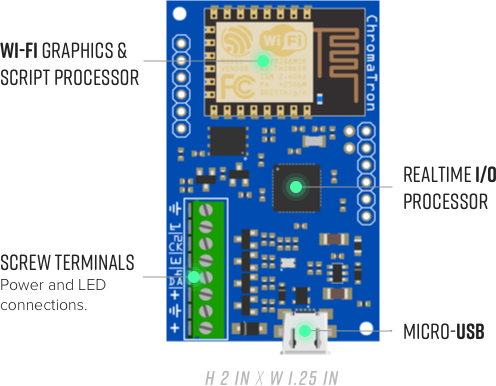
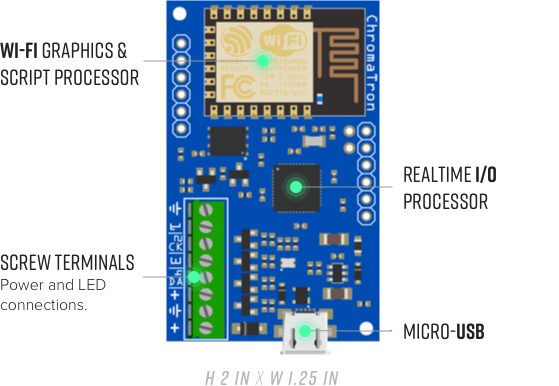
converted diagrams to pngs for now, later need to convert text to html or html/svg/css

diff --git a/docs/index.html b/docs/index.html
@@ -33,4 +33,4 @@ def loop():
         pixels[i].hue = a
         a += 1.0 / pix_count()
             </code>
-          </pre></div><div id="demo-2"></div><div id="demo-3"></div><p>This script generates this effect:</p></div></section><section class="hardware tertiary"><div class="container"><h1 class="h2">Hardware</h1><p class="text-center"><img src="images/hw-diagram-vert.svg" alt="Chromatron hardware prototype." class="img-responsive visible-xs"> <img src="images/hw-diagram-horiz.svg" alt="Chromatron hardware prototype." class="img-responsive hidden-xs"></p></div></section><section class="technical-details"><div class="container"><h1 class="h2">Technical Specs</h1><div class="row"><div class="col-xs-12 col-sm-4 col-md-3"><h3>I/O Processor</h3></div><div class="col-xs-12 col-sm-8 col-md-7"><ul class="list-unstyled"><li>Atmel AVR XMega128A4U</li><li>32 MHz</li><li>8K SRAM</li><li>128K Flash</li></ul><p>This processor runs the real time OS, handles raw pixel data output, USB, auxiliary IO, and the user file system.</p></div></div><hr><div class="row"><div class="col-xs-12 col-sm-4 col-md-3"><h3>Wi-Fi/Graphics processor</h3></div><div class="col-xs-12 col-sm-8 col-md-7"><ul class="list-unstyled"><li>Espressif ESP8266</li><li>160 MHz</li><li>64K RAM</li></ul><p>Handles Wi-Fi communications, scripting engine VM, pixel faders, and HSV to RGB colorspace conversion. Connected to the real time processor via 4 MHz UART bridge.</p></div></div><hr><div class="row"><div class="col-xs-12 col-sm-4 col-md-3"><h3>I/O</h3></div><div class="col-xs-12 col-sm-8 col-md-7"><ul class="list-unstyled"><li>4x PWM outputs, 3 amps each</li><li>1x Pixel clock + data output with built in level shifters, multiplexed with 2 of the PWM channels</li><li>2x power and ground connections</li><li>Micro USB port</li><li>2x expansion IO headers for future use</li></ul></div></div><hr><div class="row"><div class="col-xs-12 col-sm-4 col-md-3"><h3>Dimensions</h3></div><div class="col-xs-12 col-sm-8 col-md-7"><ul class="list-unstyled"><li>1.25 x 2 inches (the USB overhangs by another 0.1 inches or so)</li></ul><div class="row"><div class="col-xs-12 col-sm-6"><img src="images/hw-dimens-top.svg" alt="side dimensions"></div><div class="col-xs-12 col-sm-6"><img src="images/hw-dimens-side.svg" alt="side dimensions"></div></div></div></div></div></section><section class="about-us tertiary"><div class="container"><h1 class="h2">About Us</h1><p class="lead">Sapphire Open Systems is an Austin, TX based startup whose mission is to enable hobbyists, makers, and professionals to connect anything to everything and promote open source and interoperability as a better way to make electronics.</p></div></section><section class="open-source secondary"><div class="container"><div class="row"><div class="col-xs-12 col-sm-8"><h1 class="h2">100% Open Source</h1><p class="lead">All software and hardware will be released under OSI compatible licenses once the project hits the funding goal.</p></div><div class="col-xs-6 col-sm-2 text-center"><img height="180" width="172" class="img-responsive" src="images/osi-logo-outline.svg" alt="Open Source Initiative logo"><h4>Open Source<br>Initiative</h4></div><div class="col-xs-6 col-sm-2 text-center"><img height="180" width="172" class="img-responsive" src="images/oshw-logo-outline.svg" alt="Open Source Hardware logo"><h4>Open Source<br>Hardware</h4></div></div></div></section><footer class="main-footer primary"><div class="container"><h5>Copyright &copy; <span class="copyright-year">2017</span> Sapphire Open Systems</h5><ul class="list-inline"><li><a rel="me" href="https://github.com/sapphireos/"><i class="fa fa-github fa-2x"></i></a></li><li><a rel="me" href="https://www.facebook.com/sapphirechromatron/"><i class="fa fa-facebook-official fa-2x"></i></a></li><li><a rel="me" href="https://twitter.com/sapphireos"><i class="fa fa-twitter fa-2x"></i></a></li><li><a rel="me" href="https://www.youtube.com/user/SapphireOpenSystems"><i class="fa fa-youtube-play fa-2x"></i></a></li></ul></div></footer><section class="goal hidden"><div class="container"><h1 class="h2">Risks and Challenges</h1><p>Electronics manufacturing is hard. I would know &mdash; I've been doing it for over 10 years. Issues always come up during manufacturing, but there's a lot that can be done to help mitigate them.</p><div class="row"><div class="col-xs-12 col-sm-6"><ul class="list-unstyled"><li><h3>Production lead times</h3><p>Lead times for production quantities of parts can be quite long. 6 to 8 weeks can be typical. However, it is imprudent to order production quantities until your hardware design is finished, otherwise you may be stuck with 1000s of the wrong part. We have an advantage here, in that Chromatron's hardware design is already finished, so we can confidently begin ordering high risk parts (such as processors and connectors) as soon as funds are available.</p></li><li><h3>Manufacturing errors</h3><p>Manufacturing errors can and do happen. Wrong parts, missing parts, misaligned parts, boards overheated &mdash; these are all things that can happen, and are all things I've dealt with in my professional work. Chromatron is being built locally in Austin, TX at a vendor I have past experience with (with excellent results). I can be on site in 20 minutes if issues crop up (there's no substitute for being able to troubleshoot in person). Additionally, I will be doing a lower volume pilot run (100-250 units) to ensure any issues are worked out before committing resources to the full build.</p></li></ul></div><div class="col-xs-12 col-sm-6"><ul class="list-unstyled"><li><h3>Software bugs</h3><p>I take software issues very seriously and design my code to be as robust as possible. While much of Chromatron's software is pretty mature at this point, no sane engineer would call their work bug free and I am no exception. The open source nature of the project means you have the opportunity to review and comment on my work, as well as file bug reports (and feature requests!). I use Chromatron 24/7 to run the lighting in my home, so I am personally invested in the quality of the software that runs it.</p></li><li><h3>Communication</h3><p>Almost everyone on Kickstarter has heard of projects plagued by communications issues. Chromatron is not going to be one of them. I will communicate any and all issues that come up and what I'm doing to handle them, along with general progress of the various parts of the project. It is my hope that Chromatron can become a sustainable business in the future, and I believe the only way that can happen is to earn the trust of my community of backers.</p></li></ul></div></div></div></section><script>!function(e,t,a,n,c,o){e.GoogleAnalyticsObject=n,e[n]||(e[n]=function(){(e[n].q=e[n].q||[]).push(arguments)}),e[n].l=+new Date,c=t.createElement(a),o=t.getElementsByTagName(a)[0],c.src="https://www.google-analytics.com/analytics.js",o.parentNode.insertBefore(c,o)}(window,document,"script","ga"),ga("create","UA-29351826-4"),ga("send","pageview")</script><script src="scripts/vendor.js"></script><script src="scripts/plugins.js"></script><script src="scripts/main.js"></script></body></html>
+          </pre></div><div id="demo-2"></div><div id="demo-3"></div><p>This script generates this effect:</p></div></section><section class="hardware tertiary"><div class="container"><h1 class="h2">Hardware</h1><p class="text-center"><img src="images/hw-diagram-vert.png" alt="Chromatron hardware prototype." class="img-responsive visible-xs"> <img src="images/hw-diagram-horiz.png" alt="Chromatron hardware prototype." class="img-responsive hidden-xs"></p></div></section><section class="technical-details"><div class="container"><h1 class="h2">Technical Specs</h1><div class="row"><div class="col-xs-12 col-sm-4 col-md-3"><h3>I/O Processor</h3></div><div class="col-xs-12 col-sm-8 col-md-7"><ul class="list-unstyled"><li>Atmel AVR XMega128A4U</li><li>32 MHz</li><li>8K SRAM</li><li>128K Flash</li></ul><p>This processor runs the real time OS, handles raw pixel data output, USB, auxiliary IO, and the user file system.</p></div></div><hr><div class="row"><div class="col-xs-12 col-sm-4 col-md-3"><h3>Wi-Fi/Graphics processor</h3></div><div class="col-xs-12 col-sm-8 col-md-7"><ul class="list-unstyled"><li>Espressif ESP8266</li><li>160 MHz</li><li>64K RAM</li></ul><p>Handles Wi-Fi communications, scripting engine VM, pixel faders, and HSV to RGB colorspace conversion. Connected to the real time processor via 4 MHz UART bridge.</p></div></div><hr><div class="row"><div class="col-xs-12 col-sm-4 col-md-3"><h3>I/O</h3></div><div class="col-xs-12 col-sm-8 col-md-7"><ul class="list-unstyled"><li>4x PWM outputs, 3 amps each</li><li>1x Pixel clock + data output with built in level shifters, multiplexed with 2 of the PWM channels</li><li>2x power and ground connections</li><li>Micro USB port</li><li>2x expansion IO headers for future use</li></ul></div></div><hr><div class="row"><div class="col-xs-12 col-sm-4 col-md-3"><h3>Dimensions</h3></div><div class="col-xs-12 col-sm-8 col-md-7"><ul class="list-unstyled"><li>1.25 x 2 inches (the USB overhangs by another 0.1 inches or so)</li></ul><div class="row"><div class="col-xs-12 col-sm-6"><img class="img-responsive" src="images/hw-dimens-top.png" alt="side dimensions"></div><div class="col-xs-12 col-sm-6"><img class="img-responsive" src="images/hw-dimens-side.png" alt="side dimensions"></div></div></div></div></div></section><section class="about-us tertiary"><div class="container"><h1 class="h2">About Us</h1><p class="lead">Sapphire Open Systems is an Austin, TX based startup whose mission is to enable hobbyists, makers, and professionals to connect anything to everything and promote open source and interoperability as a better way to make electronics.</p></div></section><section class="open-source secondary"><div class="container"><div class="row"><div class="col-xs-12 col-sm-8"><h1 class="h2">100% Open Source</h1><p class="lead">All software and hardware will be released under OSI compatible licenses once the project hits the funding goal.</p></div><div class="col-xs-6 col-sm-2 text-center"><img height="180" width="172" class="img-responsive" src="images/osi-logo-outline.svg" alt="Open Source Initiative logo"><h4>Open Source<br>Initiative</h4></div><div class="col-xs-6 col-sm-2 text-center"><img height="180" width="172" class="img-responsive" src="images/oshw-logo-outline.svg" alt="Open Source Hardware logo"><h4>Open Source<br>Hardware</h4></div></div></div></section><footer class="main-footer primary"><div class="container"><h5>Copyright &copy; <span class="copyright-year">2017</span> Sapphire Open Systems</h5><ul class="list-inline"><li><a rel="me" href="https://github.com/sapphireos/"><i class="fa fa-github fa-2x"></i></a></li><li><a rel="me" href="https://www.facebook.com/sapphirechromatron/"><i class="fa fa-facebook-official fa-2x"></i></a></li><li><a rel="me" href="https://twitter.com/sapphireos"><i class="fa fa-twitter fa-2x"></i></a></li><li><a rel="me" href="https://www.youtube.com/user/SapphireOpenSystems"><i class="fa fa-youtube-play fa-2x"></i></a></li></ul></div></footer><section class="goal hidden"><div class="container"><h1 class="h2">Risks and Challenges</h1><p>Electronics manufacturing is hard. I would know &mdash; I've been doing it for over 10 years. Issues always come up during manufacturing, but there's a lot that can be done to help mitigate them.</p><div class="row"><div class="col-xs-12 col-sm-6"><ul class="list-unstyled"><li><h3>Production lead times</h3><p>Lead times for production quantities of parts can be quite long. 6 to 8 weeks can be typical. However, it is imprudent to order production quantities until your hardware design is finished, otherwise you may be stuck with 1000s of the wrong part. We have an advantage here, in that Chromatron's hardware design is already finished, so we can confidently begin ordering high risk parts (such as processors and connectors) as soon as funds are available.</p></li><li><h3>Manufacturing errors</h3><p>Manufacturing errors can and do happen. Wrong parts, missing parts, misaligned parts, boards overheated &mdash; these are all things that can happen, and are all things I've dealt with in my professional work. Chromatron is being built locally in Austin, TX at a vendor I have past experience with (with excellent results). I can be on site in 20 minutes if issues crop up (there's no substitute for being able to troubleshoot in person). Additionally, I will be doing a lower volume pilot run (100-250 units) to ensure any issues are worked out before committing resources to the full build.</p></li></ul></div><div class="col-xs-12 col-sm-6"><ul class="list-unstyled"><li><h3>Software bugs</h3><p>I take software issues very seriously and design my code to be as robust as possible. While much of Chromatron's software is pretty mature at this point, no sane engineer would call their work bug free and I am no exception. The open source nature of the project means you have the opportunity to review and comment on my work, as well as file bug reports (and feature requests!). I use Chromatron 24/7 to run the lighting in my home, so I am personally invested in the quality of the software that runs it.</p></li><li><h3>Communication</h3><p>Almost everyone on Kickstarter has heard of projects plagued by communications issues. Chromatron is not going to be one of them. I will communicate any and all issues that come up and what I'm doing to handle them, along with general progress of the various parts of the project. It is my hope that Chromatron can become a sustainable business in the future, and I believe the only way that can happen is to earn the trust of my community of backers.</p></li></ul></div></div></div></section><script>!function(e,t,a,n,c,o){e.GoogleAnalyticsObject=n,e[n]||(e[n]=function(){(e[n].q=e[n].q||[]).push(arguments)}),e[n].l=+new Date,c=t.createElement(a),o=t.getElementsByTagName(a)[0],c.src="https://www.google-analytics.com/analytics.js",o.parentNode.insertBefore(c,o)}(window,document,"script","ga"),ga("create","UA-29351826-4"),ga("send","pageview")</script><script src="scripts/vendor.js"></script><script src="scripts/plugins.js"></script><script src="scripts/main.js"></script></body></html>

diff --git a/app/index.html b/app/index.html
@@ -197,8 +197,8 @@ def loop():
       <div class="container">
         <h1 class="h2">Hardware</h1>
         <p class="text-center">
-          <img src="images/hw-diagram-vert.svg" alt="Chromatron hardware prototype." class="img-responsive visible-xs">
-          <img src="images/hw-diagram-horiz.svg" alt="Chromatron hardware prototype." class="img-responsive hidden-xs">
+          <img src="images/hw-diagram-vert.png" alt="Chromatron hardware prototype." class="img-responsive visible-xs">
+          <img src="images/hw-diagram-horiz.png" alt="Chromatron hardware prototype." class="img-responsive hidden-xs">
         </p>
       </div>
     </section>
@@ -268,10 +268,10 @@ def loop():
             </ul>
             <div class="row">
               <div class="col-xs-12 col-sm-6">
-                <img src="images/hw-dimens-top.svg" alt="side dimensions">
+                <img class="img-responsive" src="images/hw-dimens-top.png" alt="side dimensions">
               </div>
               <div class="col-xs-12 col-sm-6">
-                <img src="images/hw-dimens-side.svg" alt="side dimensions">
+                <img class="img-responsive" src="images/hw-dimens-side.png" alt="side dimensions">
               </div>
             </div>
           </div>
